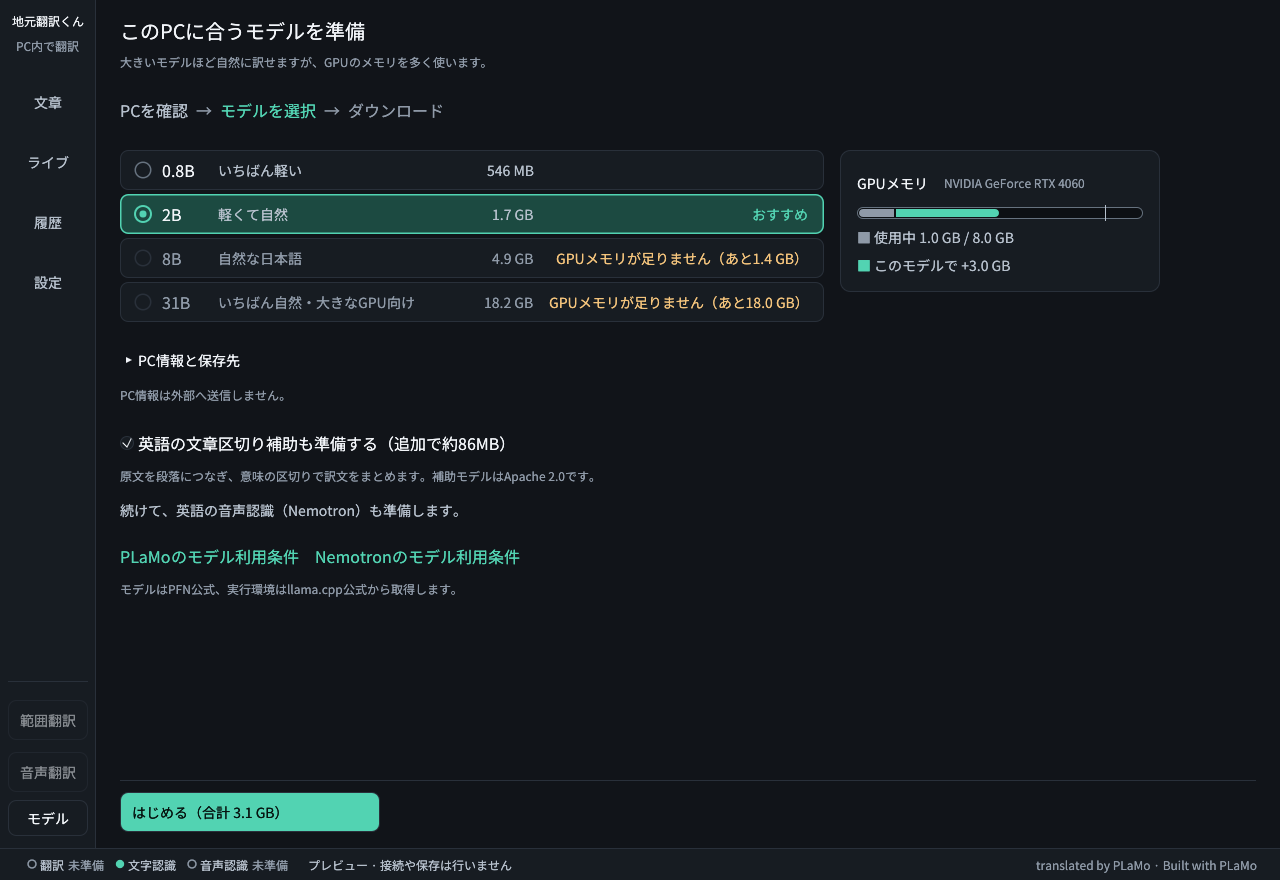
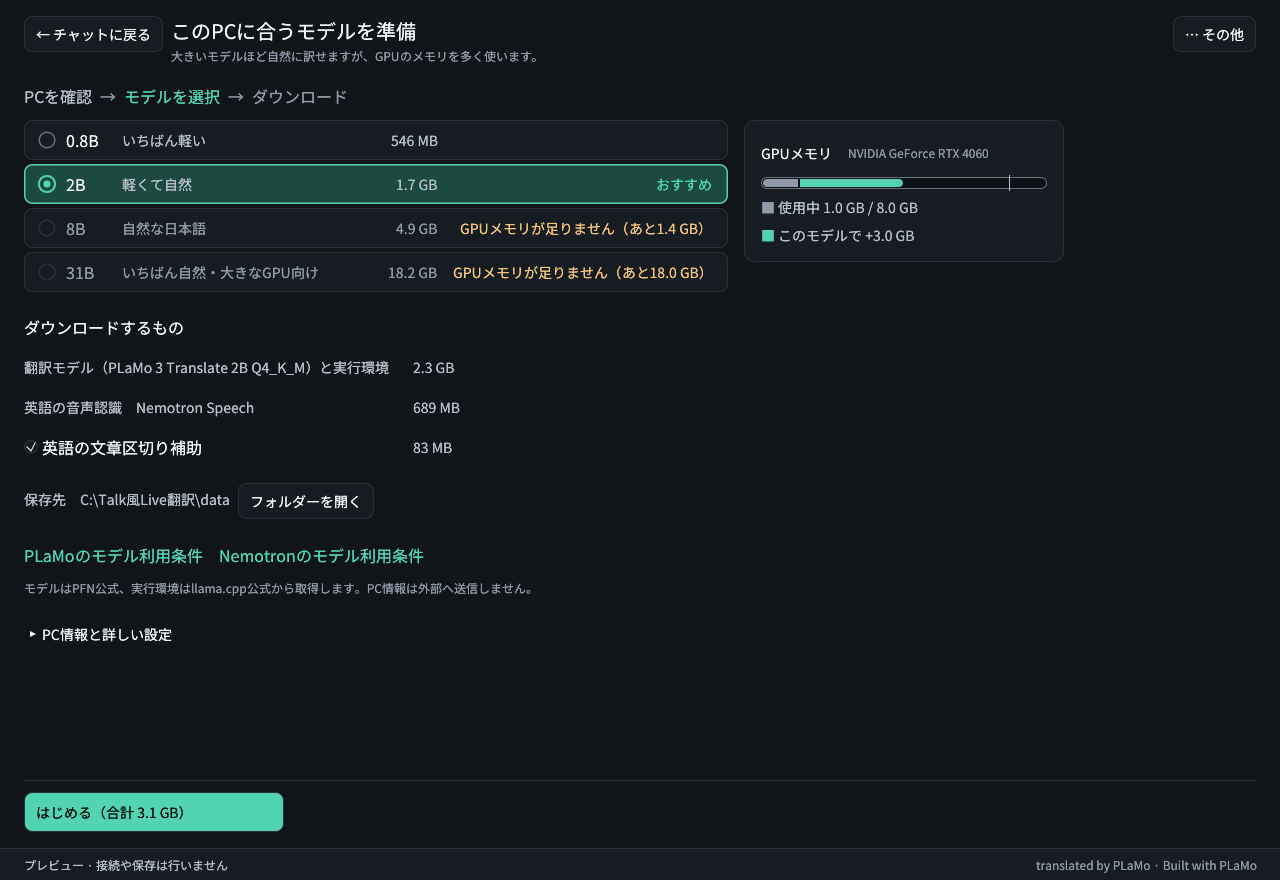
初回の準備画面に「ダウンロードするもの」をまとめ、大きさと保存先を並べる (#47)
「はじめる」で取得するもの（翻訳モデルと実行環境、英語の音声認識、英語の文章区切り補助、読み上げの声）を、1行ずつ大きさと並べます。その下に、保存先（展開したフォルダの data）と「フォルダーを開く」、利用条件のリンクを置きます。別々に出ていた「続けて、…も準備します。」と「PC情報は外部へ送信しません。」は、この一覧にまとめます。PC情報と詳しい設定は、たたんだまま下に置きます。READMEの初回画面の画像を、今の画面を --render-preview で描いたものに差し替えます。

diff --git a/src/setup.rs b/src/setup.rs
@@ -392,59 +392,111 @@ impl App {
                 if self.setup.hardware.is_none()
                     && !self.setup.detecting
                     && ui
-                        .add(ui::primary("PCの情報を確認").min_size(Vec2::new(190.0, theme::CONTROL_H_LARGE)))
+                        .add(
+                            ui::primary("PCの情報を確認")
+                                .min_size(Vec2::new(190.0, theme::CONTROL_H_LARGE)),
+                        )
                         .clicked()
                 {
                     self.detect_capacity();
                 }
                 if self.setup.recommendation.is_some() {
                     self.picker_ui(ui);
+                    ui.add_space(theme::SPACE_4);
+                    self.setup_downloads(ui);
                     ui.add_space(theme::SPACE_3);
                     self.setup_pc_details(ui);
-                    ui.add_space(theme::SPACE_4);
-                    ui.add_enabled_ui(!self.setup.installing(), |ui| {
-                        if ui
-                            .checkbox(
-                                &mut self.settings.english_punctuation,
-                                "英語の文章区切り補助も準備する（追加で約86MB）",
-                            )
-                            .changed()
-                        {
-                            self.forget_stopped_chain();
-                        }
-                    });
-                    ui.label(theme::caption(
-                        "原文を段落につなぎ、意味の区切りで訳文をまとめます。補助モデルはApache 2.0です。",
-                    ));
-                    let plan = self.download_plan().unwrap_or_default();
-                    let also = also_prepared(&plan);
-                    if !also.is_empty() {
-                        ui.add_space(theme::SPACE_2);
-                        ui.label(theme::label(format!("続けて、{also}も準備します。")));
-                    }
-                    ui.add_space(theme::SPACE_3);
-                    ui.horizontal_wrapped(|ui| {
-                        ui.spacing_mut().item_spacing.x = theme::SPACE_4;
-                        ui.hyperlink_to(
-                            "PLaMoのモデル利用条件",
-                            "https://plamo.preferredai.jp/info/plamo-community-license-ja",
-                        );
-                        if plan.includes(Step::Speech) {
-                            ui.hyperlink_to(
-                                "Nemotronのモデル利用条件",
-                                "https://www.nvidia.com/en-us/agreements/enterprise-software/nvidia-open-model-license/",
-                            );
-                        }
-                    });
-                    ui.label(theme::caption(
-                        "モデルはPFN公式、実行環境はllama.cpp公式から取得します。",
-                    ));
                     self.setup_error_details(ui);
                 } else {
                     self.setup_error_summary(ui);
                     self.setup_error_details(ui);
                 }
             });
+    }
+
+    /// What 「はじめる」 fetches, how much each part is, and the folder it goes to,
+    /// so the one button needs nothing else read first.
+    fn setup_downloads(&mut self, ui: &mut egui::Ui) {
+        let plan = self.download_plan().unwrap_or_default();
+        let size = |step: Step| {
+            plan.steps
+                .iter()
+                .find(|(planned, _)| *planned == step)
+                .map(|(_, size)| match size {
+                    0 => "保存済み".to_owned(),
+                    size => bytes(size.next_multiple_of(1_048_576)),
+                })
+        };
+        let model = self
+            .setup_model()
+            .map_or_else(|| "PLaMo 3 Translate".to_owned(), |model| model.label);
+        let editable = !self.setup.installing();
+        ui.label(RichText::new("ダウンロードするもの").strong());
+        ui.add_space(theme::SPACE_1);
+        egui::Grid::new("setup-downloads")
+            .num_columns(2)
+            .spacing([theme::SPACE_6, theme::SPACE_2])
+            .show(ui, |ui| {
+                for (step, name) in [
+                    (Step::Translation, format!("翻訳モデル（{model}）と実行環境")),
+                    (Step::Speech, "英語の音声認識　Nemotron Speech".to_owned()),
+                    (Step::Voice, "読み上げの声".to_owned()),
+                ] {
+                    if let Some(size) = size(step) {
+                        ui.label(theme::label(name));
+                        ui.label(theme::label(size));
+                        ui.end_row();
+                    }
+                }
+                ui.add_enabled_ui(editable, |ui| {
+                    if ui
+                        .checkbox(&mut self.settings.english_punctuation, "英語の文章区切り補助")
+                        .on_hover_text(
+                            "原文を段落につなぎ、意味の区切りで訳文をまとめます。補助モデルはApache 2.0です。",
+                        )
+                        .changed()
+                    {
+                        self.forget_stopped_chain();
+                    }
+                });
+                ui.label(match size(Step::Punctuation) {
+                    Some(size) => theme::label(size),
+                    None => theme::caption("約86 MB"),
+                });
+                ui.end_row();
+            });
+        ui.add_space(theme::SPACE_3);
+        let data = data_root();
+        ui.horizontal_wrapped(|ui| {
+            ui.label(theme::label(format!("保存先　{}", data.display())));
+            if ui.add(egui::Button::new("フォルダーを開く")).clicked() {
+                self.open_data_folder();
+            }
+        });
+        let store = self.model_store_root();
+        if !store.starts_with(&data) {
+            ui.label(theme::label(format!(
+                "翻訳モデルの保存先　{}",
+                store.display()
+            )));
+        }
+        ui.add_space(theme::SPACE_3);
+        ui.horizontal_wrapped(|ui| {
+            ui.spacing_mut().item_spacing.x = theme::SPACE_4;
+            ui.hyperlink_to(
+                "PLaMoのモデル利用条件",
+                "https://plamo.preferredai.jp/info/plamo-community-license-ja",
+            );
+            if plan.includes(Step::Speech) {
+                ui.hyperlink_to(
+                    "Nemotronのモデル利用条件",
+                    "https://www.nvidia.com/en-us/agreements/enterprise-software/nvidia-open-model-license/",
+                );
+            }
+        });
+        ui.label(theme::caption(
+            "モデルはPFN公式、実行環境はllama.cpp公式から取得します。PC情報は外部へ送信しません。",
+        ));
     }
 
     /// What was measured, the model store and the CPU switch, folded away until wanted.
@@ -458,7 +510,7 @@ impl App {
             .as_ref()
             .map(|r| r.warnings.clone())
             .unwrap_or_default();
-        egui::CollapsingHeader::new("PC情報と保存先").show(ui, |ui| {
+        egui::CollapsingHeader::new("PC情報と詳しい設定").show(ui, |ui| {
             let gpus: Vec<_> = hardware
                 .gpus
                 .iter()
@@ -514,7 +566,6 @@ impl App {
                 ui.colored_label(theme::WARNING, warning);
             }
         });
-        ui.label(theme::caption("PC情報は外部へ送信しません。"));
     }
 
     /// Current step in the accent colour, finished steps readable, later ones muted.
@@ -674,19 +725,6 @@ pub(super) fn start_label(action: &str, plan: Option<Plan>) -> String {
         }
         _ => action.to_owned(),
     }
-}
-
-/// What the chain prepares after the translation model, for the line under the checkbox.
-fn also_prepared(plan: &Plan) -> String {
-    [
-        (Step::Speech, "英語の音声認識（Nemotron）"),
-        (Step::Voice, "読み上げの声"),
-    ]
-    .into_iter()
-    .filter(|(step, _)| plan.includes(*step))
-    .map(|(_, name)| name)
-    .collect::<Vec<_>>()
-    .join("と")
 }
 
 #[cfg(test)]

diff --git a/src/picker/tests.rs b/src/picker/tests.rs
@@ -680,3 +680,54 @@ fn the_meter_sits_beside_the_list_when_wide_and_above_it_when_narrow() {
         "level with the top row"
     );
 }
+
+#[test]
+fn the_screen_lists_each_download_with_its_size_and_the_folder_it_goes_to() {
+    use setup_chain::Step;
+    // Tall enough that the list under the model rows is in view without scrolling.
+    for size in [(SMALL.0, 1600.0), LARGE] {
+        let nothing = tempfile::tempdir().unwrap();
+        let mut app = app_on(Some((24 * GIB, 5 * GIB)));
+        app.seed_plan(&setup_chain::Roots::under(nothing.path()));
+        let plan = app.download_plan().expect("a plan for the chosen model");
+        let model = app.setup_model().expect("a chosen model");
+        let drawn = texts(&Session::new().settle(&mut app, size));
+        let at = |want: &str| {
+            drawn
+                .iter()
+                .find(|(_, _, text)| text == want)
+                .map(|(_, rect, _)| *rect)
+                .unwrap_or_else(|| panic!("{size:?}: {want:?} is not drawn"))
+        };
+        for (step, name) in [
+            (
+                Step::Translation,
+                format!("翻訳モデル（{}）と実行環境", model.label),
+            ),
+            (Step::Speech, "英語の音声認識　Nemotron Speech".to_owned()),
+            (Step::Punctuation, "英語の文章区切り補助".to_owned()),
+        ] {
+            let bytes_of = plan
+                .steps
+                .iter()
+                .find(|(planned, _)| *planned == step)
+                .unwrap()
+                .1;
+            let name = at(&name);
+            let amount = bytes(bytes_of.next_multiple_of(1_048_576));
+            assert!(
+                drawn.iter().any(|(_, rect, text)| *text == amount
+                    && rect.left() > name.right()
+                    && (rect.center().y - name.center().y).abs() < 4.0),
+                "{size:?}: {amount} is on the row of {step:?}"
+            );
+        }
+        at(&format!("保存先　{}", data_root().display()));
+        assert!(
+            !drawn
+                .iter()
+                .any(|(_, _, text)| text.starts_with("続けて、")),
+            "{size:?}: the list replaces the sentence about what comes next"
+        );
+    }
+}

diff --git a/README.md b/README.md
@@ -26,7 +26,7 @@ translated by PLaMo
 
 1. **起動する**：配布ZIPを展開し、`Talk風Live翻訳.cmd` を開きます（PythonやRustの事前導入は不要です）。
    - ※未導入のPCでは、翻訳エンジンの実行に [Microsoft Visual C++ 再頒布可能パッケージ（x64）](https://learn.microsoft.com/ja-jp/cpp/windows/latest-supported-vc-redist?view=msvc-170) が必要です。
-2. **「はじめる」を押す**：初回画面で、0.8B・2B・8B・31B の大きさを選びます。大きいほど自然に訳せますが、GPUのメモリを多く使います。GPUメモリのグラフに、いまの使用量と、選んだモデルが足す量が出ます。このPCに合う大きさが最初から選ばれているので、そのまま「はじめる」を押せます。ボタンには、これから取得する量の合計が出ます。
+2. **「はじめる」を押す**：初回画面で、0.8B・2B・8B・31B の大きさを選びます。大きいほど自然に訳せますが、GPUのメモリを多く使います。GPUメモリのグラフに、いまの使用量と、選んだモデルが足す量が出ます。このPCに合う大きさが最初から選ばれているので、そのまま「はじめる」を押せます。ボタンには、これから取得する量の合計が出ます。その上の「ダウンロードするもの」に、取得するものとそれぞれの大きさ、保存先（ZIPを展開したフォルダの `data`）が出ます。
    - 押すと、翻訳モデル、英語の文章区切り補助（チェックを外すと省きます）、英語のPC音声の認識（Nemotron Speech）を、順に準備します。「2/3 英語の文章区切り補助を準備中」のように、いまの段階が出ます。
    - 「中止」で止められます。途中で失敗しても、できたところは残ります。「もう一度」で、失敗したところから続けられます。
    - GPUのメモリに入らない大きさは選べません。GPUがないPC（CPUかNPUだけのPC）では、0.8Bだけを選べます。
